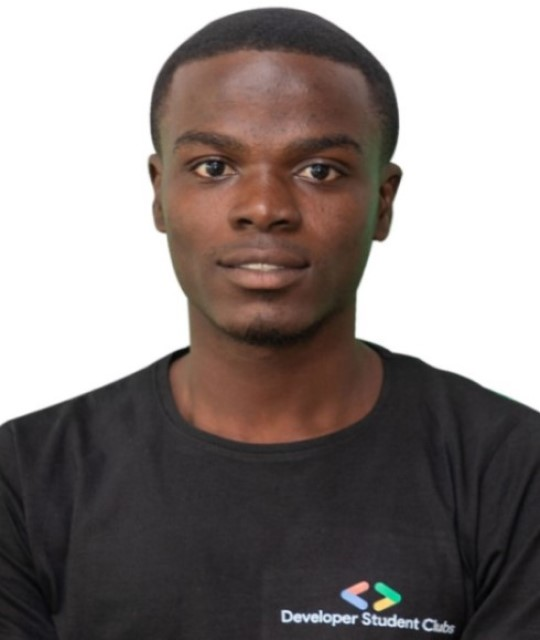
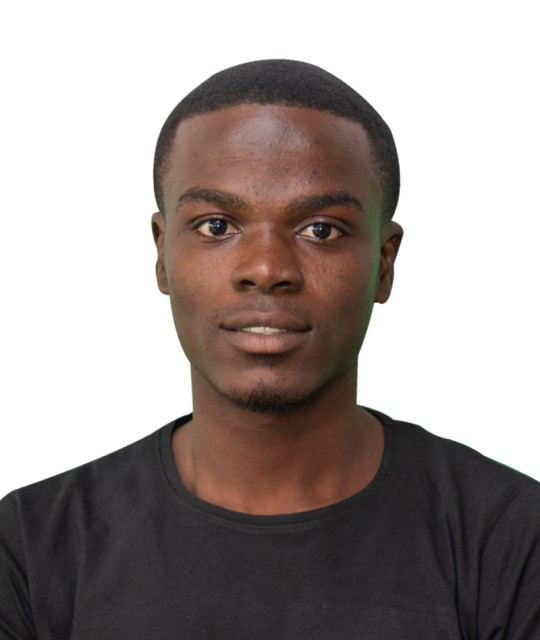
updated the pictures

diff --git a/index.html b/index.html
@@ -76,12 +76,16 @@
 								</span>
 							</h2>
 							<ul class="buttons">
-								<li><a href="assets/files/clocking.apk" download="clocking" class="button wow fadeInUp" data-wow-duration=".5s" data-wow-delay=".6s"
-										style="visibility: visible; animation-duration: 0.5s; animation-delay: 0.6s; animation-name: fadeInUp;">Download APK</a>
+								<li><a href="assets/files/clocking.apk" download="clocking" class="button wow fadeInUp"
+										data-wow-duration=".5s" data-wow-delay=".6s"
+										style="visibility: visible; animation-duration: 0.5s; animation-delay: 0.6s; animation-name: fadeInUp;">Download
+										APK</a>
 								</li>
-								<li><a href="https://clock-in-3148e--pr2-mvp-1-0-1-ka4acmxw.web.app/#/" target="_blank" class="button button-border button-transparent wow fadeInUp"
+								<li><a href="https://clock-in-3148e--pr2-mvp-1-0-1-ka4acmxw.web.app/#/" target="_blank"
+										class="button button-border button-transparent wow fadeInUp"
 										data-wow-duration=".5s" data-wow-delay=".9s"
-										style="visibility: visible; animation-duration: 0.5s; animation-delay: 0.9s; animation-name: fadeInUp;">Log in As Admin</a></li>
+										style="visibility: visible; animation-duration: 0.5s; animation-delay: 0.9s; animation-name: fadeInUp;">Log
+										in As Admin</a></li>
 							</ul>
 						</div>
 					</div><!-- .col -->
@@ -109,9 +113,9 @@
 					<div class="col-md-8 col-md-offset-2">
 						<h2 class="heading">About <span>Clocking System</span></h2>
 						<p style=" font-size: x-large;">
-							Clocking System is developed to track and keep of <span style="color: #870A4F;
+							Clocking System is developed to track and keep <span style="color: #870A4F;
 							font-weight: bold;">attendance</span>
-							 records of teachers and students in Senior High Schools.
+							records of teachers and students in Senior High Schools.
 						</p>
 					</div>
 				</div>
@@ -129,8 +133,6 @@
 							<div class="row">
 								<div class="col-md-12">
 									<h2 class="heading heading-light">Amazing Features</h2>
-									<p>Nam et sagittis diam. Sed tempor augue sit amet egestas scelerisque. Orci varius
-										natoque penatibus et magnis dis parturient montes, nascetur ridiculus mus.</p>
 								</div>
 							</div>
 						</div><!-- .section-head -->
@@ -146,7 +148,8 @@
 								<div class="single-features">
 									<em class="ti ti-time"></em>
 									<h4>Real Time Updates</h4>
-									<p>Real llows teachers to clock in or out whiles admins track and monitor in real time</p>
+									<p>Real llows teachers to clock in or out whiles admins track and monitor in real
+										time</p>
 								</div>
 							</div><!-- .col -->
 							<div class="col-sm-6">
@@ -169,7 +172,7 @@
 						<div class="feature-mockups clearfix">
 							<div class="fearures-software-mockup black right wow fadeInUp" data-wow-duration=".5s"
 								data-wow-delay=".7s">
-								<img src="images/attandace.PNG" alt="software-screen" />
+								<img src="images/attandace.png" alt="software-screen" />
 							</div>
 							<div class="phone-mockup">
 								<div class="iphonex-flat-mockup large wow fadeInUp" data-wow-duration=".5s">
@@ -259,7 +262,7 @@
 				<div class="col-md-2 col-sm-6">
 					<div class="team-member">
 						<div class="team-photo">
-							<img src="images/perditha.jpeg" alt="team" />
+							<img src="images/perditha.png" alt="team" />
 							<!-- <a href="#team-profile-2" class="expand-trigger content-popup"><span
 									class="ti ti-plus"></span></a> -->
 						</div>
@@ -296,7 +299,7 @@
 					</div>
 				</div>
 				<div class="col-md-1 col-sm-1">
-					
+
 				</div>
 			</div><!-- .row  -->
 		</div><!-- .container  -->
@@ -385,22 +388,22 @@
 	<script src="assets/js/scriptc302.js"></script>
 	<script>
 		// Import the functions you need from the SDKs you need
-import { initializeApp } from "firebase/app";
-// TODO: Add SDKs for Firebase products that you want to use
-// https://firebase.google.com/docs/web/setup#available-libraries
+		import { initializeApp } from "firebase/app";
+		// TODO: Add SDKs for Firebase products that you want to use
+		// https://firebase.google.com/docs/web/setup#available-libraries
 
-// Your web app's Firebase configuration
-const firebaseConfig = {
-  apiKey: "AIzaSyC3_eH9y2v3qok8C83eMKuBCNn76Y_GnnQ",
-  authDomain: "clock-in-3148e.firebaseapp.com",
-  projectId: "clock-in-3148e",
-  storageBucket: "clock-in-3148e.appspot.com",
-  messagingSenderId: "572330292336",
-  appId: "1:572330292336:web:0863059428fb560146f0b5"
-};
+		// Your web app's Firebase configuration
+		const firebaseConfig = {
+			apiKey: "AIzaSyC3_eH9y2v3qok8C83eMKuBCNn76Y_GnnQ",
+			authDomain: "clock-in-3148e.firebaseapp.com",
+			projectId: "clock-in-3148e",
+			storageBucket: "clock-in-3148e.appspot.com",
+			messagingSenderId: "572330292336",
+			appId: "1:572330292336:web:0863059428fb560146f0b5"
+		};
 
-// Initialize Firebase
-const app = initializeApp(firebaseConfig);
+		// Initialize Firebase
+		const app = initializeApp(firebaseConfig);
 	</script>
 
 </body>
